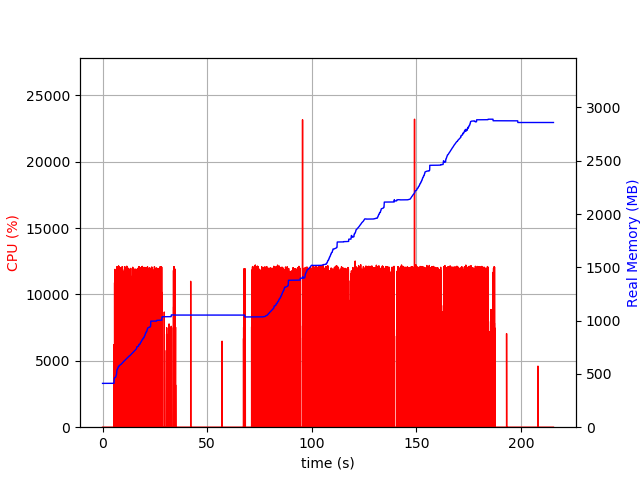
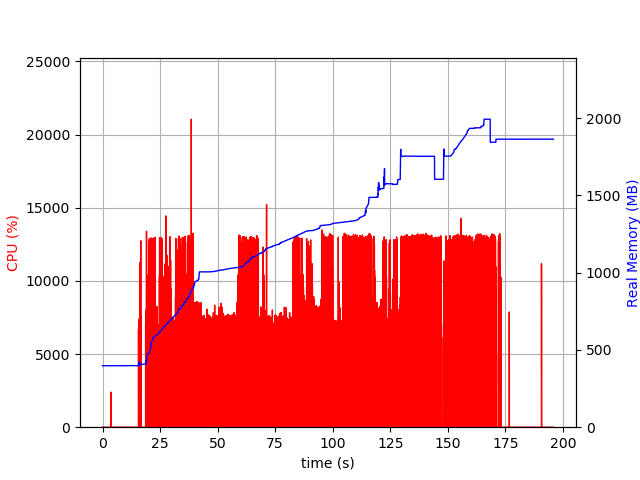
fix: loading model as memo and update to psrecord plot

diff --git a/main.py b/main.py
@@ -26,11 +26,15 @@ To get you started, you can use these images to test it by simply saving it into
 
 Image sources : [Bigstockphoto website](https://www.bigstockphoto.com/image-168470984/stock-photo-healthy-green-corn-leaves-growing-in-orchard-planting-corn-summer-corn-plant-image) and [Cropwatch UNL website](https://cropwatch.unl.edu/2018/differentiating-corn-leaf-diseases)
 """
+
+@st.experimental_memo(suppress_st_warning=True)
+def load_effinet_model():
+    return load_model('saved-model/best_model', compile=False)
+
 @st.experimental_memo(suppress_st_warning=True)
 def predict(_image):
     IMAGE_RES = (224, 224)
-    corn_classifier_model = 'saved-model/best_model'
-    model = load_model(corn_classifier_model, compile=False)
+    model = load_effinet_model()
     classes = ['Cercospora Leaf Spot (Gray Leaf Spot)', 'Common Rust', 'Healthy', 'Northern Leaf Blight']
     
     test_images = _image.resize(IMAGE_RES)
@@ -180,6 +184,7 @@ def main():
                         time.sleep(1)
                     st.success('Image Has Been Classified')
                     st.write(predictions)
-                    predict.clear()
+                predict.clear()
+
 if __name__ == '__main__':
     main()
